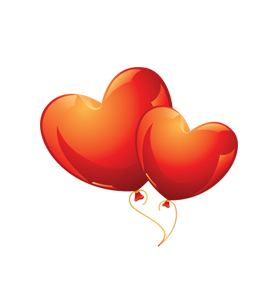
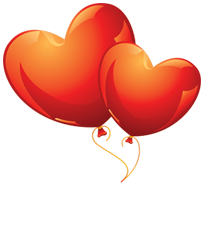
correction filtre coeur qui bloquait le select

diff --git a/views/home.php b/views/home.php
@@ -1,6 +1,6 @@
 <?php include('header.php');?>
 
-  <select name="filter" id="filter">
+  <select name="filter" id="filter" onchange="changeFilter()">
     <option value="dino">Dino</option>
     <option value="heart">Heart balloons</option>
     <option value="eve">Eve (Wall-E)</option>
@@ -24,9 +24,9 @@
 <script>
 
 var constraints = { audio: false, video: true };
-var filterpic = document.querySelector('#filterpic');
+var filterpic = document.getElementById('filterpic');
 var filter = document.querySelector('#putfilter');
-var select = document.querySelector('#filter');
+var select = document.getElementById('filter');
 var video = document.querySelector('video');
 var canvas = document.querySelector('#canvas');
 var startbutton = document.querySelector('#startbutton');
@@ -41,29 +41,35 @@ navigator.mediaDevices.getUserMedia(constraints)
 })
 .catch(function(err) { console.log(err.name + ": " + err.message); }); // always check for errors at the end.
 
-select.addEventListener('click', (ev) => {
-  choice = select.value;
-  if(choice == 'dino'){
+function changeFilter() {
+  var choice = document.getElementById('filter').value;
+  // console.log(select);
+  console.log(choice);
+  if (choice == 'dino'){
     filterpic.setAttribute('value', 'dino');
+    filter.setAttribute('alt', 'dino');
     filter.setAttribute('style', 'position:absolute; right:-10; bottom:-15; width:52%;');
     filter.setAttribute('src', '../filters/dino.png');
   }
   else if (choice == 'heart'){
     filterpic.setAttribute('value', 'heart');
-    filter.setAttribute('style', 'position:absolute; top:-40; left:-20; width:35%;');
+    filter.setAttribute('alt', 'heart');
+    filter.setAttribute('style', 'position:absolute; top:13; left:5; width:30%;');
     filter.setAttribute('src', '../filters/coeurs.png');
   }
   else if (choice == 'eve'){
     filterpic.setAttribute('value', 'eve');
+    filter.setAttribute('alt', 'eve');
     filter.setAttribute('style', 'position:absolute; left:-35; bottom:-23; width:52%;');
     filter.setAttribute('src', '../filters/eveuh.png');
   }
   else if (choice == 'fox'){
     filterpic.setAttribute('value', 'fox');
+    filter.setAttribute('alt', 'fox');
     filter.setAttribute('style', 'position:absolute; right:6; bottom:-2; height:52%;');
     filter.setAttribute('src', '../filters/fox.png');
   }
-});
+}
 
 startbutton.addEventListener('click', (ev) => {
   takepicture();
